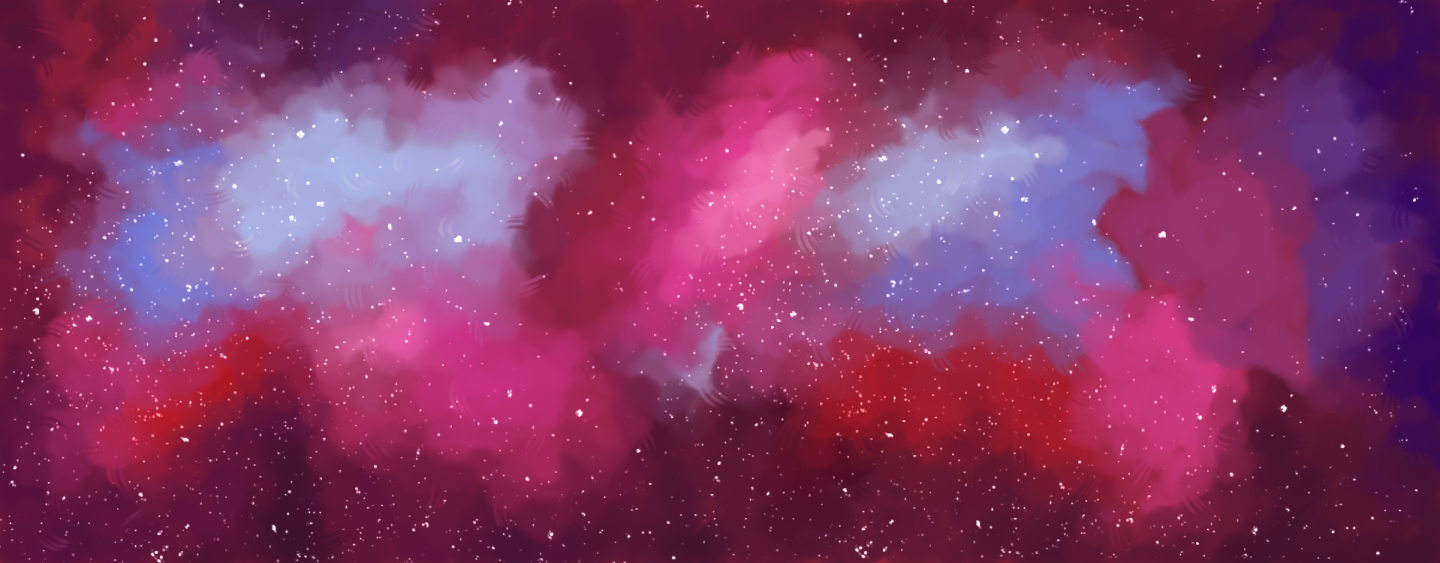
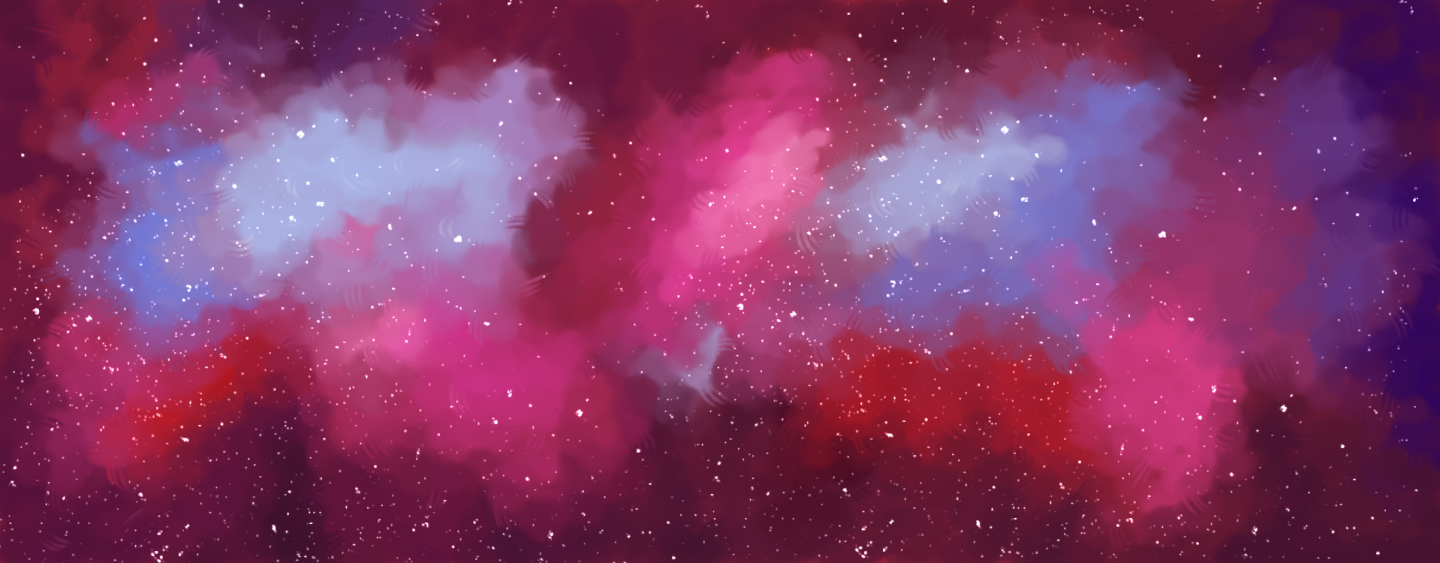
Stuff

Changed region(s): [[0.75, 0.1812, 0.8438, 0.5435], [0.8125, 0.5737, 0.875, 0.6341], [0.875, 0.5133, 0.9062, 0.5737]]

diff --git a/styles/style.css b/styles/style.css
@@ -110,12 +110,8 @@ h1, h2, h3, p { cursor: default; }
 	/*overflow: hidden;*/
 }
 
-.indexBody{
-    background-image: url("../images/backing.png");
-}
-
-.keyFactsBody{
-    background-image: url("../images/backing.png");
+.backing{
+    background-image: linear-gradient(transparent, 70%, rgba(255,255,255, 0.25)), url("../images/backing.png");
 }
 
 .leftContentParent { float: left; justify-content: right; }

diff --git a/index.php b/index.php
@@ -5,7 +5,7 @@
   <?php include "includes/head.php" ; ?>
   <?php include "includes/header.php" ; ?>
 
-        <div class="contentContainer indexBody">
+        <div class="contentContainer backing">
             <div class="leftContentParent">
                 <div class="halfContent">
                   <h2>Earth-chan Needs Our Help!</h2>

diff --git a/game.php b/game.php
@@ -5,7 +5,7 @@
   <?php include "includes/head.php" ; ?>
   <?php include "includes/header.php" ; ?>
 
-        <div class="contentContainer indexBody">
+        <div class="contentContainer backing">
             <div class="fullContentParent">
               <div> <div class="earthIdle"></div>
                 <div class="fullContent">

diff --git a/powergeneration.php b/powergeneration.php
@@ -5,7 +5,7 @@
     <?php include("includes/head.php"); ?>
     <?php include "includes/header.php" ; ?>
 
-    <div class="contentContainer keyFactsBody">
+    <div class="contentContainer backing">
             <div class="keyFactsCol1">
                 <div class="sidePod">
                   <p>Nuclear power is fun<br>

diff --git a/carbon.php b/carbon.php
@@ -5,7 +5,7 @@
     <?php include("includes/head.php"); ?>
     <?php include "includes/header.php" ; ?>
 
-<div class="contentContainer keyFactsBody">
+    <div class="contentContainer backing">
             <div class="keyFactsCol1">
                 <div class="sidePod">
                   <p>Nuclear power is fun<br>

diff --git a/smr.php b/smr.php
@@ -5,7 +5,7 @@
     <?php include("includes/head.php"); ?>
     <?php include "includes/header.php" ; ?>
 
-<div class="contentContainer keyFactsBody">
+    <div class="contentContainer backing">
             <div class="keyFactsCol1">
                 <div class="sidePod">
                   <p>Nuclear power is fun<br>

diff --git a/fadetest.php b/fadetest.php
@@ -5,7 +5,7 @@
     <?php include("includes/head.php"); ?>
     <?php include "includes/header.php" ; ?>
 
-<div class="contentContainer keyFactsBody">
+<div class="contentContainer backing">
             <div class="keyFactsCol1">
                 <div class="sidePod">
                   <p>Nuclear power is fun<br>
